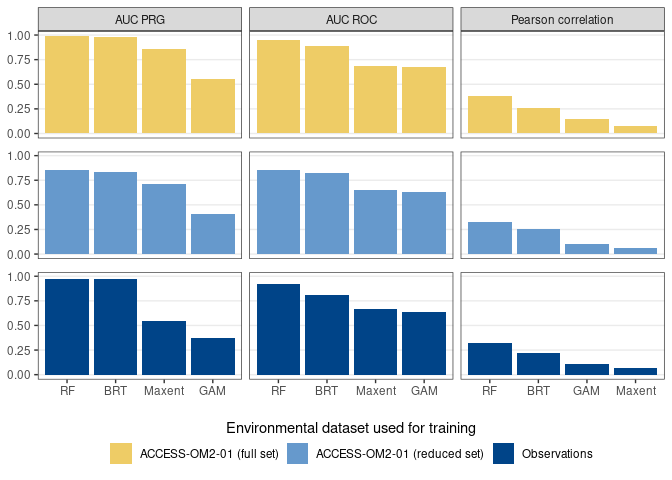
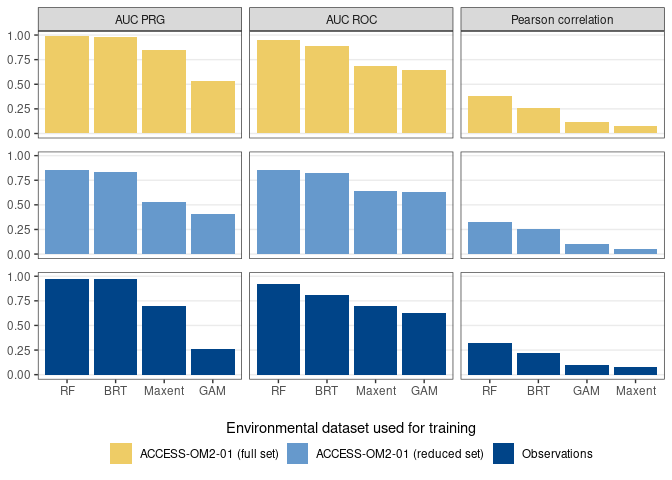
recalculating weights with low vif runs

diff --git a/Scripts/05_SDMs/07_Calculating_weights_ensemble.md b/Scripts/05_SDMs/07_Calculating_weights_ensemble.md
@@ -84,18 +84,18 @@ model_eval
     ## # A tibble: 12 × 6
     ##    model                  env_trained auc_roc auc_prg pear_cor pear_norm_weights
     ##    <chr>                  <chr>         <dbl>   <dbl>    <dbl>             <dbl>
-    ##  1 GAM                    mod_match_…   0.633   0.403   0.104             0.0844
-    ##  2 GAM                    full_access   0.677   0.557   0.142             0.116 
-    ##  3 GAM                    observatio…   0.633   0.375   0.108             0.0922
-    ##  4 Maxent                 mod_match_…   0.648   0.713   0.0617            0     
-    ##  5 Maxent                 full_access   0.686   0.863   0.0794            0     
-    ##  6 Maxent                 observatio…   0.663   0.541   0.0668            0     
-    ##  7 RandomForest           mod_match_…   0.853   0.853   0.324             0.525 
-    ##  8 RandomForest           full_access   0.948   0.992   0.379             0.552 
-    ##  9 RandomForest           observatio…   0.918   0.972   0.317             0.560 
-    ## 10 BoostedRegressionTrees mod_match_…   0.819   0.833   0.257             0.390 
-    ## 11 BoostedRegressionTrees full_access   0.891   0.979   0.260             0.333 
-    ## 12 BoostedRegressionTrees observatio…   0.809   0.971   0.222             0.348
+    ##  1 GAM                    mod_match_…   0.633   0.403   0.104             0.0968
+    ##  2 GAM                    full_access   0.648   0.533   0.119             0.0782
+    ##  3 GAM                    observatio…   0.625   0.261   0.0977            0.0469
+    ##  4 Maxent                 mod_match_…   0.642   0.531   0.0529            0     
+    ##  5 Maxent                 full_access   0.683   0.849   0.0784            0     
+    ##  6 Maxent                 observatio…   0.693   0.696   0.0789            0     
+    ##  7 RandomForest           mod_match_…   0.853   0.853   0.324             0.516 
+    ##  8 RandomForest           full_access   0.948   0.992   0.379             0.574 
+    ##  9 RandomForest           observatio…   0.918   0.972   0.317             0.595 
+    ## 10 BoostedRegressionTrees mod_match_…   0.819   0.833   0.257             0.388 
+    ## 11 BoostedRegressionTrees full_access   0.891   0.979   0.260             0.347 
+    ## 12 BoostedRegressionTrees observatio…   0.809   0.971   0.222             0.358
 
 ### Plotting model performance metrics
 
@@ -252,12 +252,12 @@ head(preds)
     ## # Rowwise: 
     ##     gam maxent    rf    brt ensemble_mean auc_weighted_ensemble_mean
     ##   <dbl>  <dbl> <dbl>  <dbl>         <dbl>                      <dbl>
-    ## 1 0.403  1     0.668 0.890          0.740                      0.780
-    ## 2 0.322  0.567 0.654 0.857          0.600                      0.645
-    ## 3 0.476  0.628 0.695 0.883          0.671                      0.702
-    ## 4 0.472  0.726 0.735 0.912          0.711                      0.747
-    ## 5 0.401  0.390 0.675 0.821          0.572                      0.607
-    ## 6 0.471  0.589 0.170 0.0221         0.313                      0.276
+    ## 1 0.403  0.544 0.668 0.890          0.626                      0.673
+    ## 2 0.322  0.190 0.654 0.857          0.506                      0.574
+    ## 3 0.476  0.607 0.695 0.883          0.665                      0.703
+    ## 4 0.472  0.713 0.735 0.912          0.708                      0.746
+    ## 5 0.401  0.636 0.675 0.821          0.633                      0.672
+    ## 6 0.471  0.712 0.170 0.0221         0.344                      0.279
     ## # ℹ 3 more variables: auc_norm_weighted_ensemble_mean <dbl>,
     ## #   pear_weighted_ensemble_mean <dbl>, pear_norm_weighted_ensemble_mean <dbl>
 
@@ -277,11 +277,11 @@ preds %>%
     ## # A tibble: 5 × 2
     ##   weight_type                       RMSE
     ##   <chr>                            <dbl>
-    ## 1 pear_norm_weighted_ensemble_mean 0.162
-    ## 2 pear_weighted_ensemble_mean      0.194
-    ## 3 auc_norm_weighted_ensemble_mean  0.216
-    ## 4 auc_weighted_ensemble_mean       0.262
-    ## 5 ensemble_mean                    0.300
+    ## 1 pear_norm_weighted_ensemble_mean 0.164
+    ## 2 auc_norm_weighted_ensemble_mean  0.175
+    ## 3 pear_weighted_ensemble_mean      0.192
+    ## 4 auc_weighted_ensemble_mean       0.248
+    ## 5 ensemble_mean                    0.305
 
 The smallest RMSE was estimated when normalised Pearson correlation
 values were applied as weights. We will use these weights in the final
